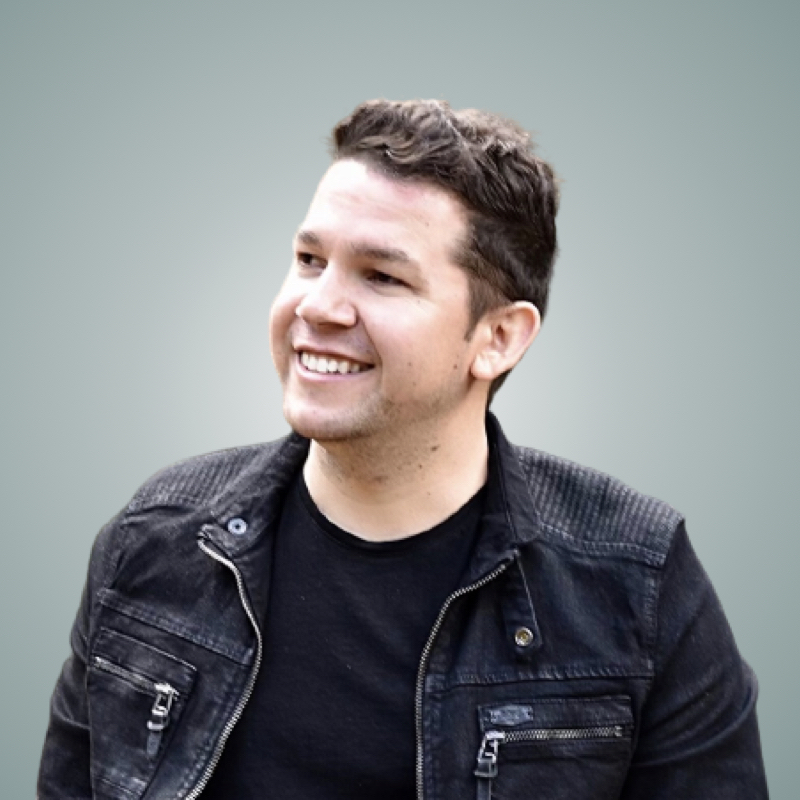
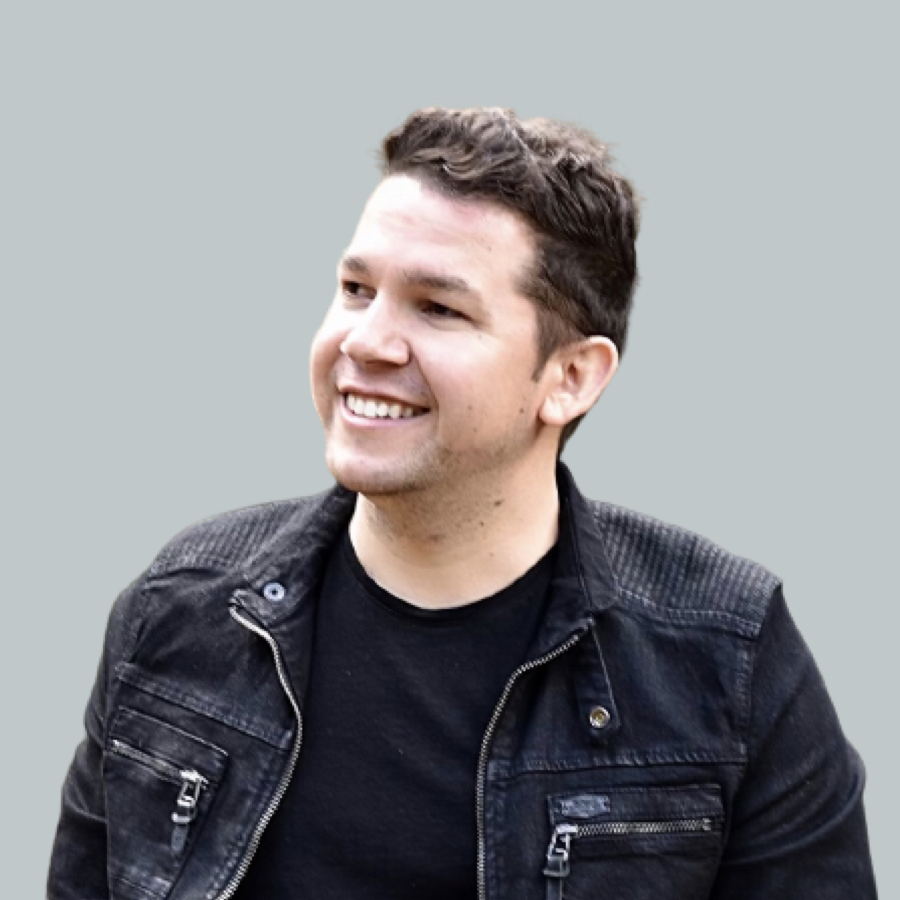
update

diff --git a/assets/css/main.css b/assets/css/main.css
@@ -1,1 +1,1 @@
-/******************************************************************************* Variables used throughout the theme. To adjust anything, simply edit the variables below and rebuild the theme. */ /******************************************************************************* Themes */ @media (prefers-color-scheme: light) { html { --bg-color: #ffffff; --code-bg-color: #f2f2f2; --text-color: #505050; --theme-color: #1d7590; --divider-color: rgba(0,0,0,.1); } } @media (prefers-color-scheme: dark) { html { --bg-color: #1C1C1D; --code-bg-color: #2c3237; --text-color: #c2c2c2; --theme-color: #7bcce4; --divider-color: #424246; } } /* ================= my custom styling================== */ html, body { color: var(--text-color); background-color: var(--bg-color); font-size: 16px; line-height: 1.5; height: 100%; display: flex; flex-direction: column; } /*#main-container, #navbar { max-width: 1000px; margin: auto; }*/ a, a:hover { color: var(--theme-color); } table th, table td { font-size: 1em; padding-left: 0; padding-right: 1em; padding-top: .5em; padding-bottom: .5em; vertical-align: top; } table.chrono tr td:first-child { white-space: nowrap; } #profile-img { border-radius: 50%; padding: 3px; border: 1px solid var(--divider-color); max-width: 170px; } .navbar-brand { font-size: 1.12em; } .affiliation { border-bottom: 1px solid var(--divider-color); } .affiliation a > span, .affiliation a > i { color: var(--text-color); } .notice { background: var(--code-bg-color); border: 1px solid var(--divider-color); } h1, h2 { opacity: .98; font-weight: 500; } h1 { font-size: 1.95em; } h2 { font-size: 1.7em; } .mt-minus4 { margin-top: -4em; } ol.bibliography { margin: 0; padding: 1.5em; list-style: inherit; } ol.bibliography.mt-minus1 { margin-top: -.75em; } .bib-links { line-height: 2.2em; } .bib-link { white-space: nowrap; margin-right: .3em; padding: 4px 5.5px; border-radius: 3px; border: 1px solid #828282; color: var(--text-color); } .bib-link:hover { text-decoration: none; background: var(--theme-color); border: 1px solid var(--theme-color); color: var(--bg-color); } footer { margin-top: auto; border-top: 1px solid var(--divider-color); } /* responsive design */ @media (max-width: 576px) { #profile-img { max-width: 7em; } .affiliation { border-bottom: none; } .social { font-size: 1.5em; } } /*# sourceMappingURL=main.css.map */
+/******************************************************************************* Variables used throughout the theme. To adjust anything, simply edit the variables below and rebuild the theme. */ /******************************************************************************* Themes */ @media (prefers-color-scheme: light) { html { --bg-color: #ffffff; --code-bg-color: #f2f2f2; --text-color: #505050; --theme-color: #1d7590; --divider-color: rgba(0,0,0,.1); } } @media (prefers-color-scheme: dark) { html { --bg-color: #1C1C1D; --code-bg-color: #2c3237; --text-color: #c2c2c2; --theme-color: #7bcce4; --divider-color: #424246; } } /* ================= my custom styling================== */ html, body { color: var(--text-color); background-color: var(--bg-color); font-size: 16px; line-height: 1.5; height: 100%; display: flex; flex-direction: column; } /*#main-container, #navbar { max-width: 1000px; margin: auto; }*/ a, a:hover { color: var(--theme-color); } table th, table td { font-size: 1em; padding-left: 0; padding-right: 1em; padding-top: .5em; padding-bottom: .5em; vertical-align: top; } table.chrono tr td:first-child { white-space: nowrap; } #profile-img { border-radius: 50%; padding: 3px; border: 1px solid var(--divider-color); max-width: 170px; opacity: .9; } #profile-img:hover { opacity: 1; } .navbar-brand { font-size: 1.12em; } .affiliation { border-bottom: 1px solid var(--divider-color); } .affiliation a > span, .affiliation a > i { color: var(--text-color); } .notice { background: var(--code-bg-color); border: 1px solid var(--divider-color); } h1, h2 { opacity: .98; font-weight: 500; } h1 { font-size: 1.95em; } h2 { font-size: 1.7em; } .mt-minus4 { margin-top: -4em; } ol.bibliography { margin: 0; padding: 1.5em; list-style: inherit; } ol.bibliography.mt-minus1 { margin-top: -.75em; } .bib-links { line-height: 2.2em; } .bib-link { white-space: nowrap; margin-right: .3em; padding: 4px 5.5px; border-radius: 3px; border: 1px solid #828282; color: var(--text-color); } .bib-link:hover { text-decoration: none; background: var(--theme-color); border: 1px solid var(--theme-color); color: var(--bg-color); } footer { margin-top: auto; border-top: 1px solid var(--divider-color); } /* responsive design */ @media (max-width: 576px) { #profile-img { max-width: 7em; } .affiliation { border-bottom: none; } .social { font-size: 1.5em; } } /*# sourceMappingURL=main.css.map */
